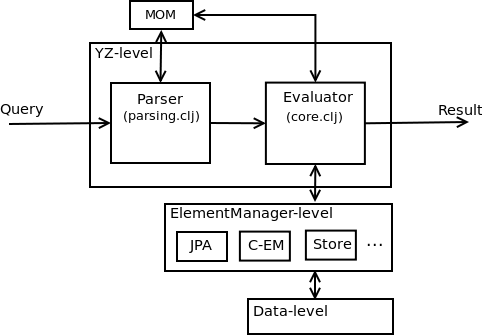
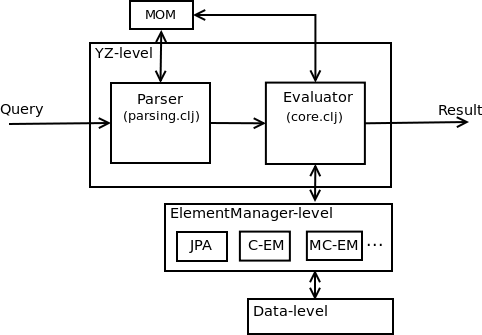
[Doc] Fixed hl arch and section about MOM.

Changed region(s): [[0.6224, 0.6866, 0.778, 0.7761]]

diff --git a/doc/IMPLEMENTATION.md b/doc/IMPLEMENTATION.md
@@ -13,9 +13,10 @@ Notes:
 * Query is parsed by parser 
 ([sourse] (https://github.com/vdim/yz/blob/master/src/ru/petrsu/nest/yz/parsing.clj)) 
 which is based on [fnparse] ( https://github.com/joshua-choi/fnparse) 
-library which is based on parser combinators which is based on [monads] (http://intensivesystems.net/tutorials/monads_101.html).
+library which is based on [parser combinators] (http://en.wikipedia.org/wiki/Parser_combinator)
+which is based on [monads] (http://intensivesystems.net/tutorials/monads_101.html).
 
-* Parsing of query is based on Map of Object Model (MOM). See section MOM in this document below for more detail. 
+* Parsing of query is based on Map of Object Model (MOM). See section MOM in this document below for more details.
 
 * Parser produces some inner data structure and passes it to query evaluator 
 ([sourse] (https://github.com/vdim/yz/blob/master/src/ru/petrsu/nest/yz/core.clj)).
@@ -24,7 +25,6 @@ library which is based on parser combinators which is based on [monads] (http://
 At this moment there is the following ElementManagers:
     * JPA ElementManager which uses the JPA API 2.0 for accessing to data. We test it by Hibernate.
     * Collection ElementManager which allows querying to usual Java collections.
-    * Store ElementManager - inner storage of the Nest project.
 
 In case you want to add your data storage you must implement ElementManager interface. See
 definition of it [here] (https://github.com/vdim/yz/blob/master/src/ru/petrsu/nest/yz/core.clj) 
@@ -43,11 +43,14 @@ MOM may contain the following information:
 * paths between classes
 * brief names of classes
 * default properties
-* comparators (it may be useful in case you can not change your model, but you want to sort your selections and 
-this classes are not implement [Comparable] (http://docs.oracle.com/javase/6/docs/api/java/lang/Comparable.html) 
+* comparators (it may be useful in case you can not change your model, but you want to sort your selection and 
+this class does not implement [Comparable] (http://docs.oracle.com/javase/6/docs/api/java/lang/Comparable.html) 
 interface).
 
-You can see example of MOM for the SON model [here] (https://github.com/vdim/yz/blob/master/test/test-resource/nest.mom).
+In point of view of the Clojure data structure MOM is map where keys are classes of 
+model and values are maps where again keys are classes of model and
+values are path from first class to second. You can see example of MOM for the SON model 
+[here] (https://github.com/vdim/yz/blob/master/test/test-resource/nest.mom).
 
 ### Creating MOM
 In order to create MOM automatically (at least skeleton) you can use the 
